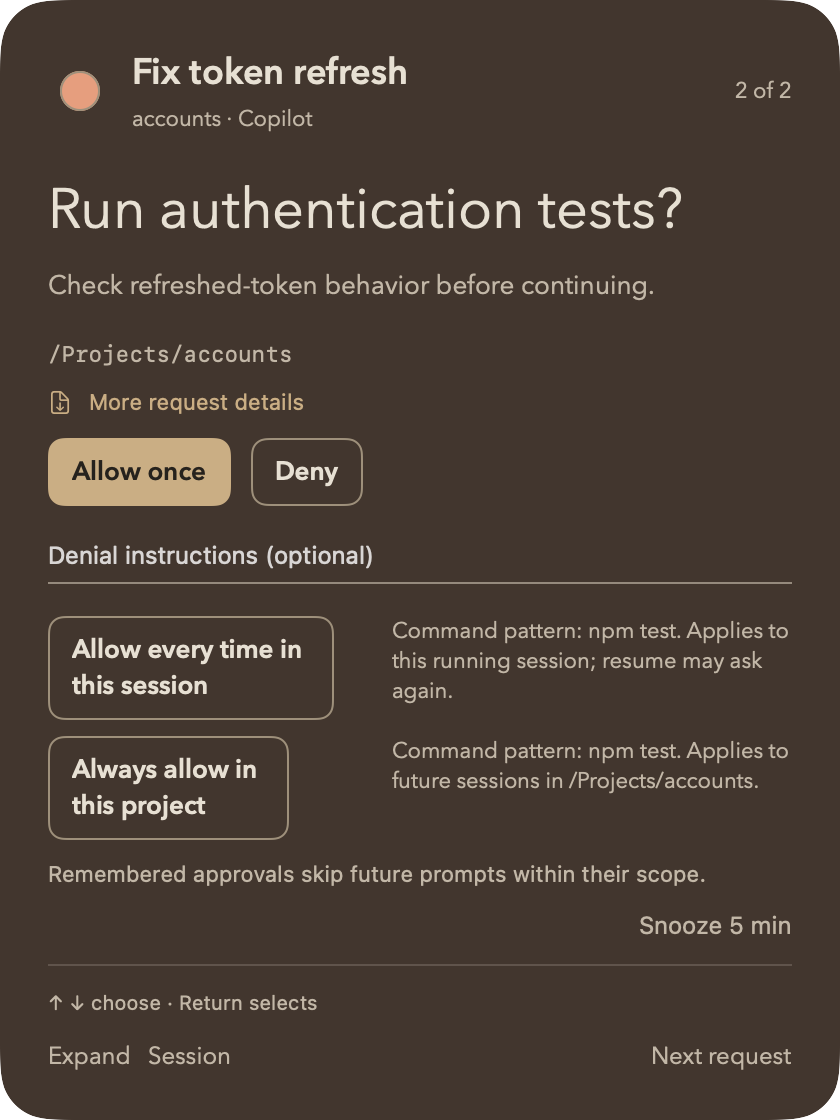
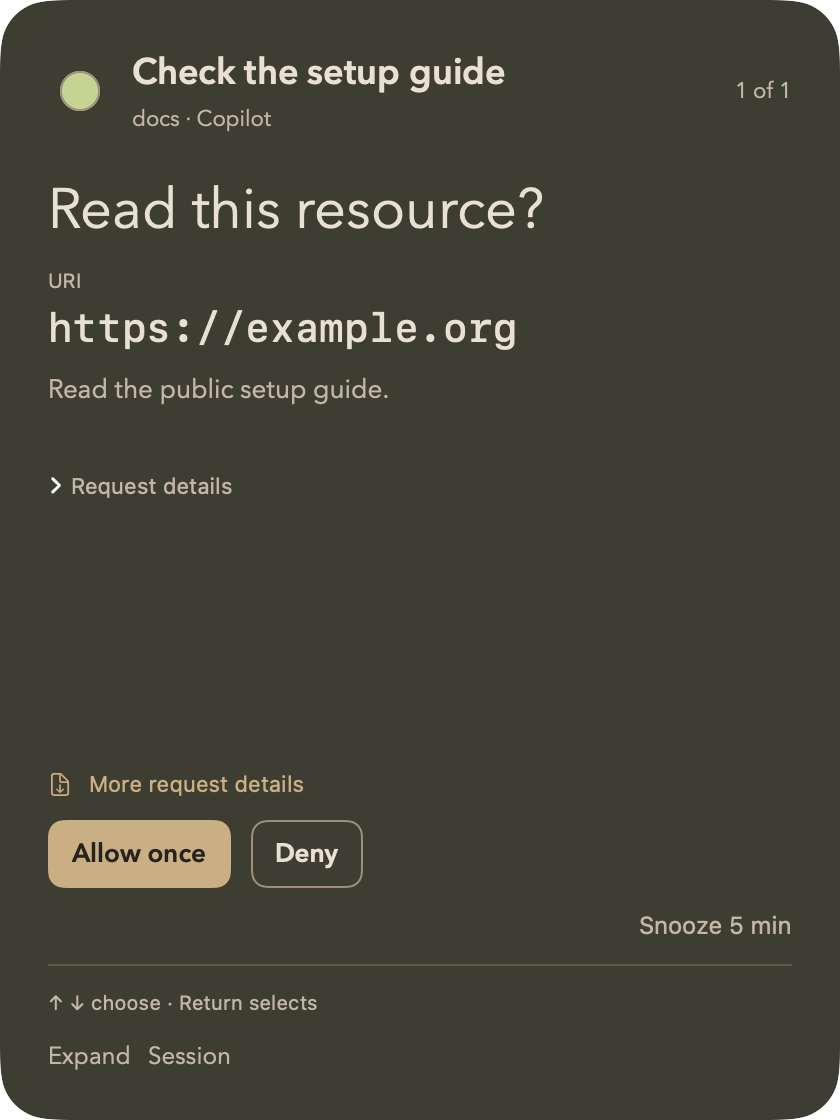
Prioritize exact targets in floating permission notifications

diff --git a/Sources/NotifyApp/Views.swift b/Sources/NotifyApp/Views.swift
@@ -170,12 +170,14 @@ struct SessionDescriptionView: View {
 struct ReadableContext: View {
     let fields: [ContextField]
     var floating = false
+    var prominentTargets = false
     var body: some View {
         LazyVStack(alignment: .leading, spacing: 12) {
             ForEach(fields) { field in
                 VStack(alignment: .leading, spacing: 5) {
                     if !field.label.isEmpty {
-                        Text(field.displayLabel).font(.system(size: 10)).foregroundStyle(floating ? Palette.noticeMuted : Palette.muted)
+                        Text(prominentTargets ? field.displayLabel.replacingOccurrences(of: "^(Args|Arguments|Input) / ", with: "", options: .regularExpression) : field.displayLabel)
+                            .font(.system(size: 10)).foregroundStyle(floating ? Palette.noticeMuted : Palette.muted)
                     }
                     if field.presentation == .diff {
                         LazyVStack(alignment: .leading, spacing: 2) {
@@ -189,7 +191,9 @@ struct ReadableContext: View {
                         }.textSelection(.enabled)
                     } else {
                         Text(field.value.isEmpty ? "(empty content)" : field.value)
-                            .font(.system(size: 12, design: field.presentation == .code ? .monospaced : .default))
+                            .font(.system(size: prominentTargets && field.targetLabel != nil ? 20 : 12,
+                                          weight: prominentTargets && field.targetLabel != nil ? .medium : .regular,
+                                          design: field.presentation == .code || prominentTargets && field.targetLabel != nil ? .monospaced : .default))
                             .foregroundStyle(field.presentation == .warning ? Palette.amber : Palette.ink)
                             .fixedSize(horizontal: false, vertical: true)
                             .frame(maxWidth: .infinity, alignment: .leading).textSelection(.enabled)
@@ -247,22 +251,26 @@ struct RequestEditor: View {
     var body: some View {
         let fields = RequestContext.fields(from: request.detail, isQuestion: request.kind == "question")
         let reasons = fields.filter { ["Intention", "Reason", "Decision Reason"].contains($0.label) }
-        let evidence = fields.filter { field in !reasons.contains { $0.id == field.id } }
+        let targets = floating && request.kind == "permission" ? fields.filter { $0.targetLabel != nil } : []
+        let highlights = targets.isEmpty ? [] : fields.filter { $0.targetLabel != nil || $0.presentation == .warning }
+        let evidence = fields.filter { field in
+            !reasons.contains { $0.id == field.id } && !highlights.contains { $0.id == field.id }
+        }
         ScrollViewReader { proxy in
         VStack(alignment: .leading, spacing: 11) {
             ScrollView {
                 VStack(alignment: .leading, spacing: 18) {
                     if wide && request.kind == "permission" {
                         HStack(alignment: .top, spacing: 32) {
-                            heading(reasons).frame(maxWidth: .infinity, alignment: .leading)
-                            context(evidence).frame(maxWidth: .infinity, alignment: .leading)
+                            heading(reasons, highlights: highlights).frame(maxWidth: .infinity, alignment: .leading)
+                            context(evidence, targets: targets).frame(maxWidth: .infinity, alignment: .leading)
                         }
                     } else {
-                        heading(reasons)
+                        heading(reasons, highlights: highlights)
                         if request.kind == "question" {
                             ForEach(request.questions) { question in questionField(question) }
                         }
-                        context(evidence).id("request-evidence")
+                        context(evidence, targets: targets).id(targets.isEmpty ? "request-evidence" : "secondary-evidence")
                     }
                     if !session.output.isEmpty {
                         DisclosureGroup("Recent conversation") {
@@ -272,7 +280,7 @@ struct RequestEditor: View {
                     }
                 }.frame(maxWidth: .infinity, alignment: .leading)
             }.frame(minHeight: wide ? 60 : 95, maxHeight: .infinity).scrollIndicators(.visible)
-            if floating && !evidence.isEmpty {
+            if floating && (!evidence.isEmpty || !highlights.isEmpty) {
                 Button {
                     proxy.scrollTo("request-evidence", anchor: .top)
                 } label: {
@@ -305,29 +313,41 @@ struct RequestEditor: View {
             }
         }
     }
-    private func heading(_ reasons: [ContextField]) -> some View {
+    private func heading(_ reasons: [ContextField], highlights: [ContextField]) -> some View {
         VStack(alignment: .leading, spacing: 10) {
             Text(.init(request.title)).font(WorkspaceType.text(floating ? 28 : 26))
                 .fixedSize(horizontal: false, vertical: true).textSelection(.enabled)
                 .frame(maxWidth: .infinity, alignment: .leading)
+            if !highlights.isEmpty {
+                ReadableContext(fields: highlights, floating: floating, prominentTargets: true).id("request-evidence")
+            }
             ForEach(reasons) { reason in
                 Text(reason.value).font(WorkspaceType.text(13)).foregroundStyle(secondary)
                     .fixedSize(horizontal: false, vertical: true).textSelection(.enabled)
             }
         }
     }
-    @ViewBuilder private func context(_ fields: [ContextField]) -> some View {
+    @ViewBuilder private func context(_ fields: [ContextField], targets: [ContextField]) -> some View {
         VStack(alignment: .leading, spacing: 10) {
             if request.kind == "permission" {
-                if !session.cwd.isEmpty {
+                let resourceOnly = !targets.isEmpty && targets.allSatisfy {
+                    ["URL", "URI"].contains($0.targetLabel ?? "") &&
+                        ["http", "https"].contains(URLComponents(string: $0.value)?.scheme?.lowercased() ?? "")
+                }
+                if !session.cwd.isEmpty && !resourceOnly {
                     Text(session.cwd).font(.system(size: 11, design: .monospaced)).foregroundStyle(secondary)
                         .fixedSize(horizontal: false, vertical: true).textSelection(.enabled)
                 }
-                let decisionFields = fields.filter(\.isDecisionDetail)
-                ReadableContext(fields: decisionFields.isEmpty ? fields : decisionFields, floating: floating)
-                let otherFields = fields.filter { !$0.isDecisionDetail }
-                if !decisionFields.isEmpty && !otherFields.isEmpty {
+                let decisionFields = fields.filter {
+                    targets.isEmpty ? $0.isDecisionDetail : !["Tool Name", "Server Name", "Request Id", "Session Id"].contains($0.label)
+                }
+                ReadableContext(fields: decisionFields.isEmpty && targets.isEmpty ? fields : decisionFields, floating: floating)
+                let otherFields = fields.filter { field in !decisionFields.contains { $0.id == field.id } }
+                if (!decisionFields.isEmpty || !targets.isEmpty) && (!otherFields.isEmpty || resourceOnly && !session.cwd.isEmpty) {
                     DisclosureGroup("Request details") {
+                        if resourceOnly && !session.cwd.isEmpty {
+                            Text("Working directory: \(session.cwd)").font(.system(size: 12, design: .monospaced)).textSelection(.enabled)
+                        }
                         ReadableContext(fields: otherFields, floating: floating).padding(.top, 7)
                     }.font(.system(size: 11)).foregroundStyle(secondary)
                 }

diff --git a/Tests/UI/main.swift b/Tests/UI/main.swift
@@ -533,6 +533,40 @@ import Vision
                     precondition(name == "welcome-install-error.png" ? text.contains("refused") : !text.contains("refused"),
                                  "A Copilot installation failure must remain under Copilot, including when it arrives after switching agents")
                 }
+                if name == "floating-uri.png" || name == "floating-uri-dark.png" {
+                    let recognition = VNRecognizeTextRequest()
+                    recognition.recognitionLevel = .accurate
+                    try VNImageRequestHandler(cgImage: bitmap.cgImage!, options: [:]).perform([recognition])
+                    let observations = recognition.results ?? []
+                    let target = observations.first { $0.topCandidates(1).first?.string.contains("example.org") == true }
+                    let action = observations.first { $0.topCandidates(1).first?.string.contains("Allow once") == true }
+                    precondition(target != nil && action != nil && target!.boundingBox.height > action!.boundingBox.height * 1.35,
+                                 "The actual URI must be visibly larger than action labels without hiding approval controls")
+                    let text = observations.compactMap { $0.topCandidates(1).first?.string }.joined(separator: " ")
+                    precondition(!text.contains("Transport bookkeeper") && text.contains("Request details"),
+                                 "Technical tool metadata must be available behind disclosure, not compete with the URI")
+                }
+                if name == "floating-uri-long.png" || name == "floating-uri-long-dark.png" {
+                    let recognition = VNRecognizeTextRequest()
+                    recognition.recognitionLevel = .accurate
+                    try VNImageRequestHandler(cgImage: bitmap.cgImage!, options: [:]).perform([recognition])
+                    let observations = recognition.results ?? []
+                    let text = observations.compactMap { $0.topCandidates(1).first?.string }.joined(separator: " ")
+                    let warning = observations.first { $0.topCandidates(1).first?.string.contains("External resource") == true }
+                    let target = observations.first { $0.topCandidates(1).first?.string.contains("docs://") == true }
+                    precondition(warning != nil && target != nil && warning!.boundingBox.minY > target!.boundingBox.maxY,
+                                 "Explicit warnings must appear above prominent resource targets")
+                    precondition(text.contains("#examples") && text.contains("Allow once") && text.contains("Deny"),
+                                 "Long URIs must wrap through their fragment while approval controls remain available")
+                }
+                if name == "floating-uri-inputs.png" {
+                    let recognition = VNRecognizeTextRequest()
+                    recognition.recognitionLevel = .accurate
+                    try VNImageRequestHandler(cgImage: bitmap.cgImage!, options: [:]).perform([recognition])
+                    let text = (recognition.results ?? []).compactMap { $0.topCandidates(1).first?.string }.joined(separator: " ")
+                    precondition(text.contains("POST") && text.contains("Invoice recipient"),
+                                 "Promoting a URI must not hide unknown potentially decision-critical inputs")
+                }
                 if name == "control-center-finished.png" || name == "floating-short-screen.png" {
                     let recognition = VNRecognizeTextRequest()
                     recognition.recognitionLevel = .accurate
@@ -729,6 +763,43 @@ import Vision
             visual.setupSnapshot = try AgentSetup.inspect(resources: setupResources, path: setupBin.path, copilotHome: fixtureRoot.appendingPathComponent("copilot-home"))
             precondition(visual.setupConnectionCount(.copilot) > 0, "Only live bridge sessions count as connected")
             try capture(AgentSetupView(store: visual), width: 960, height: 620, name: "welcome-connected.png")
+            let uriStore = Store(directory: fixtureRoot.appendingPathComponent("uri"), defaults: defaults)
+            try FileManager.default.createDirectory(at: uriStore.directory, withIntermediateDirectories: true, attributes: [.posixPermissions: 0o700])
+            defer { uriStore.stop() }
+            for packet: [String: Any] in [
+                ["type": "hello", "sessionID": "uri-session", "agent": "copilot", "cwd": "/Projects/docs"],
+                ["type": "metadata", "sessionID": "uri-session", "title": "Check the setup guide"],
+                ["type": "request", "sessionID": "uri-session", "request": [
+                    "id": "uri-request", "kind": "permission", "title": "Read this resource?",
+                    "detail": #"{"toolName":"Transport bookkeeper","serverName":"docs","arguments":{"uri":"https://example.org"},"intention":"Read the public setup guide."}"#,
+                    "autoEligible": false, "questions": []
+                ]]
+            ] {
+                uriStore.server.onPacket(try JSONDecoder().decode(AgentPacket.self, from: JSONSerialization.data(withJSONObject: packet)))
+            }
+            try capture(FloatingView(store: uriStore, openCenter: {}), width: 420, height: 560, name: "floating-uri.png")
+            try capture(FloatingView(store: uriStore, openCenter: {}), width: 420, height: 560, name: "floating-uri-dark.png", appearance: .darkAqua)
+            var previousURIRequest = "uri-request"
+            for (name, detail) in [
+                ("long", #"{"toolName":"Transport bookkeeper","warning":"External resource access.","arguments":{"uri":"docs://reference/auth?path=a%2Fb&version=2#examples"}}"#),
+                ("inputs", #"{"uri":"https://example.org","method":"POST","recipient":"Invoice recipient"}"#)
+            ] {
+                for packet: [String: Any] in [
+                    ["type": "resolved", "sessionID": "uri-session", "requestID": previousURIRequest, "decision": "deny"],
+                    ["type": "request", "sessionID": "uri-session", "request": [
+                        "id": "uri-\(name)", "kind": "permission", "title": "Read this resource?", "detail": detail,
+                        "autoEligible": false, "questions": []
+                    ]]
+                ] {
+                    uriStore.server.onPacket(try JSONDecoder().decode(AgentPacket.self, from: JSONSerialization.data(withJSONObject: packet)))
+                }
+                previousURIRequest = "uri-\(name)"
+                precondition(uriStore.error == nil, "URI capture fixtures must persist their simulated reply history")
+                try capture(FloatingView(store: uriStore, openCenter: {}), width: 420, height: 500, name: "floating-uri-\(name).png")
+                if name == "long" {
+                    try capture(FloatingView(store: uriStore, openCenter: {}), width: 420, height: 500, name: "floating-uri-long-dark.png", appearance: .darkAqua)
+                }
+            }
             visual.showSteering("visual-2")
             try capture(FloatingView(store: visual, openCenter: {}), width: 420, height: 560, name: "floating-steering.png")
             try capture(FloatingView(store: visual, openCenter: {}), width: 420, height: 560, name: "floating-steering-dark.png", appearance: .darkAqua)

diff --git a/Sources/NotifyCore/RequestContext.swift b/Sources/NotifyCore/RequestContext.swift
@@ -10,6 +10,16 @@ public struct ContextField: Identifiable {
     private var key: String {
         label.components(separatedBy: " / ").last(where: { Int($0) == nil }) ?? label
     }
+    public var targetLabel: String? {
+        switch key {
+        case "Command", "Full Command Text": return "Command"
+        case "Url", "Urls", "Resource Url", "Target Url": return "URL"
+        case "Uri", "Uris", "Resource Uri", "Target Uri": return "URI"
+        case "File Name", "File Path": return "File"
+        case "Path", "Paths": return "Path"
+        default: return nil
+        }
+    }
     public var presentation: Presentation {
         if ["Warning", "Hook Message", "Request Sandbox Bypass Reason"].contains(key) ||
             (["Request Sandbox Bypass", "Request Sandbox Permissive", "Managed Approval Required"].contains(key) && value == "Yes") {
@@ -23,6 +33,8 @@ public struct ContextField: Identifiable {
     }
     public var displayLabel: String {
         let names = ["Full Command Text": "Command", "File Name": "File", "File Path": "File",
+                     "Url": "URL", "Urls": "URLs", "Resource Url": "Resource URL", "Target Url": "Target URL",
+                     "Uri": "URI", "Uris": "URIs", "Resource Uri": "Resource URI", "Target Uri": "Target URI",
                      "Old String": "Text to replace", "New String": "Replacement text", "New File Contents": "New content",
                      "Diff": "Proposed diff", "Intention": "Supplied reason", "Decision Reason": "Permission reason",
                      "Request Sandbox Bypass": "Run outside the sandbox", "Request Sandbox Permissive": "Permissive sandbox retry",
@@ -34,8 +46,8 @@ public struct ContextField: Identifiable {
     public var isDecisionDetail: Bool { priority < 100 }
     fileprivate var priority: Int {
         if presentation == .warning { return 0 }
-        if ["Command", "Full Command Text"].contains(key) { return 1 }
-        if ["File Name", "File Path", "Path", "Paths", "Cwd", "Working Directory", "Url"].contains(key) { return 2 }
+        if targetLabel == "Command" { return 1 }
+        if targetLabel != nil || ["Cwd", "Working Directory"].contains(key) { return 2 }
         if presentation == .code || presentation == .diff { return 3 }
         if ["Intention", "Reason", "Decision Reason"].contains(key) { return 4 }
         if ["Tool Name", "Server Name"].contains(key) { return 5 }

diff --git a/Tests/NotifyCoreTests/main.swift b/Tests/NotifyCoreTests/main.swift
@@ -321,6 +321,13 @@ let commandContext = RequestContext.fields(from: #"{"kind":"commands","assistedA
 check(commandContext.first?.label == "Full Command Text", "The actual command must come before runtime metadata")
 check(commandContext.first?.presentation == .code && commandContext.first?.displayLabel == "Command", "Commands need code formatting and a useful label")
 check(commandContext.filter(\.isDecisionDetail).count == 1, "Runtime identifiers must stay available without obscuring the command")
+let uriContext = RequestContext.fields(from: #"{"toolName":"read_resource","serverName":"docs","arguments":{"debug":false,"uri":"docs://reference/auth?version=2#examples"}}"#)
+check(uriContext.first?.value == "docs://reference/auth?version=2#examples",
+      "The exact requested URI must precede tool metadata and secondary arguments")
+let resourceContext = RequestContext.fields(from: #"{"requestSandboxBypass":true,"arguments":{"resourceURI":["https://example.org/a%2Fb?x=1&y=2","file:///project/notes.txt"]},"toolName":"read_resource"}"#)
+check(resourceContext.first?.presentation == .warning, "Prominent resource targets must not outrank explicit warnings")
+check(resourceContext.dropFirst().prefix(2).map(\.value) == ["https://example.org/a%2Fb?x=1&y=2", "file:///project/notes.txt"],
+      "Nested URI arrays must preserve every exact scheme, path, query and fragment")
 let warningContext = RequestContext.fields(from: #"{"fullCommandText":"echo example","requestSandboxBypass":true,"requestSandboxBypassReason":"Network policy blocked this command","managedApprovalRequired":true}"#)
 check(warningContext.first?.label != "Full Command Text", "Explicit policy and sandbox warnings must precede the command")
 check(warningContext.filter { $0.presentation == .warning }.count == 3, "Keep every supplied policy and bypass warning prominent")

diff --git a/README.md b/README.md
@@ -11,7 +11,7 @@ Answer Copilot and Claude Code requests from a small floating panel, without swi
 
 ## A little less switching
 
-- **Know who needs you.** See the agent, project, and request before you respond.
+- **Know what you're approving.** See the agent, project, and prominent URL, path, or command. Expand technical details when needed.
 - **Answer right there.** Approve, deny, pick an option, or write your own answer.
 - **Keep your hands on the keyboard.** Up/Down choose; Return activates the highlighted choice.
 - **Keep sessions straight.** Drag to reorder, clear connection groups, and 20 shared colors—from soft pastels to richer earth and jewel tones.
@@ -23,7 +23,7 @@ Answer Copilot and Claude Code requests from a small floating panel, without swi
 <p align="center">
   <picture>
     <source media="(prefers-color-scheme: dark)" srcset="docs/images/notification-dark.png">
-    <img src="docs/images/notification.png" alt="A session-colored notification with the command, permission scopes, and reply controls" width="360">
+    <img src="docs/images/notification.png" alt="A session-colored notification with a prominent resource URI, expandable details, and reply controls" width="360">
   </picture>
   <picture>
     <source media="(prefers-color-scheme: dark)" srcset="docs/images/session-colors-dark.png">

diff --git a/docs/guide.md b/docs/guide.md
@@ -138,6 +138,8 @@ Full terminal-choice parity is still incomplete: MCP sampling, extension-authori
 
 Long prompts, options and context scroll inside the card while reply buttons remain below. Structured permission context appears as labeled values; question schemas already represented by form controls are not dumped as JSON.
 
+Floating permission cards put the exact URL/URI, command, or file path in larger selectable text before the supplied reason. Addresses retain their scheme, escapes, query and fragment; they are not shortened or opened automatically. Explicit warnings stay above the target. **Request details** expands tool/server identifiers and other known bookkeeping; unknown inputs remain visible because they may affect the decision. Working directories stay visible for commands, paths and non-web resources. **More request details** scrolls to the target when a short panel cannot show everything.
+
 SDK launcher terminals also support this fallback when the app is closed (original Copilot terminals keep their normal controls):
 
 ```text
